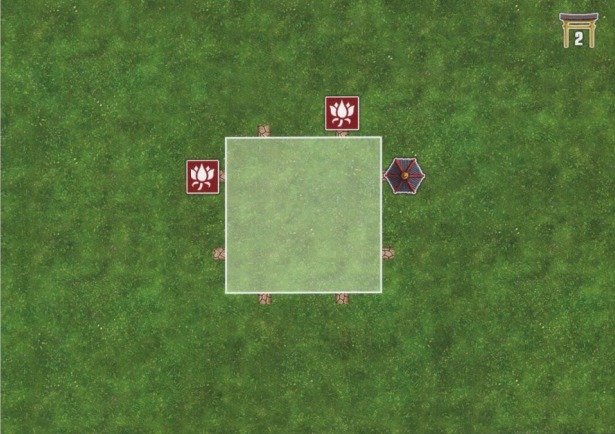
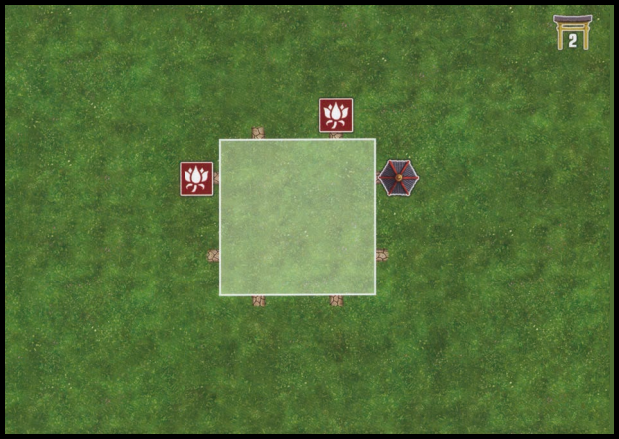
UPDATE v0.02
1ra Versión jugable. Se corrigieron las imagenes para que coincidan con
sus slots. se solucionó bug que no permitía seleccionar una ficha que
habia sido seleccionada en el mapa anterior. Ahora los datos de desafíos
completados se guardan el local store, por lo que no es necesario
empezar de cero cada vez que se actualiza el navegador.

diff --git a/js/script.js b/js/script.js
@@ -8,6 +8,7 @@ const mapas = []; //genera el array mapas.
 let fichaSeleccionada; // indica la ficha seleccionada.
 let fichaColocada; //indica la ficha colocada actualmente.
 let slots = []; //array con los slots del DOM y sus estados.
+let maxDesafioCompleto;
 
 
 //*************************************************************************************************************************
@@ -22,7 +23,7 @@ class Slot{//Se crea la clase Slot que establece el elemento del DOM y su estado
         this.oculto = false;
         this.fichaColocada;
     }
-    
+
     ocultarSlot() {
             this.elementoDOM.style.display = "none";
     }
@@ -104,6 +105,7 @@ class mapa { //genera la clase constructora de objetos mapa
 
     completarMapa() { //metodo para indicar que el desafío ya fue completado
         this.mapaCompleto = true;
+        localStorage.setItem('maxDesafioCompleto', mapaActual);
     }
 
     habilitarMapa() { //método que indica si el desafío esta habilitado para jugarse
@@ -242,41 +244,48 @@ const clickSlots = (a,b) => { //toma como parametros el nodo del slot clickeado 
     }
 }
 
-let colocarFicha = (a) => {
-    if(fichaSeleccionada >= 0 && fichaSeleccionada < 7){
-        switch(true){
+let colocarFicha = (a) => { //funcion que se encarga de colocar la ficha
+    if(fichaSeleccionada >= 0 && fichaSeleccionada < 7){ //coloca la ficha si ficha seleccionada esta entre [0;7)
+        switch(true){ //compara todos los casos y acciona el que devuelva TRUE
             case fichaSeleccionada === 0:
-                a.innerHTML = `<img id="imgFicha1" src="../assets/img/fichas/ficha1.png">`;
-                fichaSeleccionada = -1;
-                fichaColocada = 0;
+                a.innerHTML = `<img id="imgFicha1" src="../assets/img/fichas/ficha1.png">`; //coloca la imagen de la ficha en el slot
+                fichas[fichaSeleccionada].fichaSeleccionada();//evita conflictos al seleccionar una ficha en un nuevo mapa
+                fichaSeleccionada = -1; //deselecciona la ficha seleccionada previamente
+                fichaColocada = 0; //indica la ficha que se colocó
                 break;
             case fichaSeleccionada === 1:
                 a.innerHTML = `<img id="imgFicha2" src="../assets/img/fichas/ficha2.png">`;
+                fichas[fichaSeleccionada].fichaSeleccionada();
                 fichaSeleccionada = -1;
                 fichaColocada = 1;
                 break;
             case fichaSeleccionada === 2:
                 a.innerHTML = `<img id="imgFicha3" src="../assets/img/fichas/ficha3.png">`;
+                fichas[fichaSeleccionada].fichaSeleccionada();
                 fichaSeleccionada = -1;
                 fichaColocada = 2;
                 break;
             case fichaSeleccionada === 3:
                 a.innerHTML = `<img id="imgFicha4" src="../assets/img/fichas/ficha4.png">`;
+                fichas[fichaSeleccionada].fichaSeleccionada(); 
                 fichaSeleccionada = -1;
                 fichaColocada = 3;
                 break;
             case fichaSeleccionada === 4:
                 a.innerHTML = `<img id="imgFicha5" src="../assets/img/fichas/ficha5.png">`;
+                fichas[fichaSeleccionada].fichaSeleccionada(); 
                 fichaSeleccionada = -1;
                 fichaColocada = 4;
                 break;
             case fichaSeleccionada === 5:
                 a.innerHTML = `<img id="imgFicha6" src="../assets/img/fichas/ficha6.png">`;
+                fichas[fichaSeleccionada].fichaSeleccionada(); 
                 fichaSeleccionada = -1;
                 fichaColocada = 5;
                 break;
             case fichaSeleccionada === 6:
                 a.innerHTML = `<img id="imgFicha7" src="../assets/img/fichas/ficha7.png">`;
+                fichas[fichaSeleccionada].fichaSeleccionada(); 
                 fichaSeleccionada = -1;
                 fichaColocada = 6;
                 break;
@@ -332,15 +341,24 @@ const limpiarMapa = () => {
 
 //MAPA SIGUIENTE
 let mapaSiguiente = () => {
-    if(mapas[mapaActual-1].mapaCompleto){
-        
-        mapaActual++;
-        mapaSeleccionado.src=`../assets/img/niveles/nivel${mapaActual}.png`;
-        mapas[mapaActual-1].seleccionado = true; //indica al mapa actual como seleccionado.
-        mapas[mapaActual-2].seleccionado = false; //indica al mapa anterior como no seleccionado.
-        ocultarSlots(); //oculta todos los slots
-        mostrarSlots(mapaActual); //muestra los slots necesarios para el mapa siguiente
-        limpiarMapa();
+    maxDesafioCompleto = localStorage.getItem('maxDesafioCompleto');
+    if(mapas[mapaActual-1].mapaCompleto || maxDesafioCompleto >= mapaActual){
+        if(mapaActual>9) {
+            Swal.fire({ //alerta con SWEET ALERT
+                icon: 'error',
+                title: 'MAPA NO DISPONIBLE',
+                text: 'Lo sentimos, ésta es una versión de prueba del juego de mesa de REINER KNIZIA. Para seguir disfrutando de este alucinante juego, por favor cómpralo y asi ayudarás al creador!',
+                footer: ''
+            })
+        } else {
+            mapaActual++;
+            mapaSeleccionado.src=`../assets/img/niveles/nivel${mapaActual}.png`;
+            mapas[mapaActual-1].seleccionado = true; //indica al mapa actual como seleccionado.
+            mapas[mapaActual-2].seleccionado = false; //indica al mapa anterior como no seleccionado.
+            ocultarSlots(); //oculta todos los slots
+            mostrarSlots(mapaActual); //muestra los slots necesarios para el mapa siguiente
+            limpiarMapa();
+        }
     }else{
         Swal.fire({ //alerta con SWEET ALERT
             icon: 'error',
@@ -356,10 +374,22 @@ btnSiguiente.addEventListener('click',mapaSiguiente); //boton que pasa al mapa s
 //MAPA ANTERIOR
 
 let mapaAnterior = () => {
-    mapaActual--;
-    mapaSeleccionado.src=`../assets/img/niveles/nivel${mapaActual}.png`;
-    mapas[mapaActual-1].seleccionado = true; //indica al mapa actual como seleccionado.
-    mapas[mapaActual].seleccionado = false; //indica al mapa anterior como no seleccionado.
+    if(mapaActual > 1){
+        mapaActual--;
+        mapaSeleccionado.src=`../assets/img/niveles/nivel${mapaActual}.png`;
+        mapas[mapaActual-1].seleccionado = true; //indica al mapa actual como seleccionado.
+        mapas[mapaActual].seleccionado = false; //indica al mapa anterior como no seleccionado.
+        ocultarSlots(); //oculta todos los slots
+        mostrarSlots(mapaActual); //muestra los slots necesarios para el mapa siguiente
+        limpiarMapa();
+    }else{
+        Swal.fire({ //alerta con SWEET ALERT
+            icon: 'error',
+            title: 'MAPA NO DISPONIBLE',
+            text: 'Tienes que completar el desafío 49 para pasar al 50',
+            footer: ''
+        })
+    }
 }
 btnAnterior.addEventListener('click',mapaAnterior); //boton que pasa al mapa anterior
 
@@ -382,7 +412,6 @@ for (let divFichaN of fichas) {//Itera el array fichas, con for...of.
 const MOSTRARFICHAS = async () => {
     try{
         for(i=0;i<7;i++){
-            //console.log(i);
             ficha[i] = document.getElementById(`ficha${[i+1]}`)//guarda nodos con ID ficha en el array "ficha[]"-No confundir con array "fichas[]"
         }        
     }
@@ -468,50 +497,50 @@ const corroborarVictoria = () => {
             }
             break;
         case mapaActual === 3:
-            if (slots[0].fichaColocada.id === 1 && slots[0].fichaColocada.posicion === 2){
+            if (slots[1].fichaColocada.id === 4 && slots[1].fichaColocada.posicion === 1 && slots[2].fichaColocada.id === 0 && slots[2].fichaColocada.posicion === 1){
                 mapas[2].completarMapa();
                 msjCompletado();
             }
             break;
         case mapaActual === 4:
-            if (slots[0].fichaColocada.id === 1 && slots[0].fichaColocada.posicion === 2){
+            if (slots[1].fichaColocada.id === 0 && slots[1].fichaColocada.posicion === 1 && slots[2].fichaColocada.id === 5 && slots[2].fichaColocada.posicion === 4){
                 mapas[3].completarMapa();
                 msjCompletado();
             }
             break;
         case mapaActual === 5:
-            if (slots[0].fichaColocada.id === 1 && slots[0].fichaColocada.posicion === 2){
-                mapas[0].completarMapa();
+            if (slots[1].fichaColocada.id === 1 && slots[1].fichaColocada.posicion === 2 && slots[2].fichaColocada.id === 2 && slots[2].fichaColocada.posicion === 3){
+                mapas[4].completarMapa();
                 msjCompletado();
             }
             break;
         case mapaActual === 6:
-            if (slots[0].fichaColocada.id === 1 && slots[0].fichaColocada.posicion === 2){
-                mapas[0].completarMapa();
+            if (slots[1].fichaColocada.id === 5 && slots[1].fichaColocada.posicion === 4 && slots[2].fichaColocada.id === 4 && slots[2].fichaColocada.posicion === 2){
+                mapas[5].completarMapa();
                 msjCompletado();
             }
             break;
         case mapaActual === 7:
-            if (slots[0].fichaColocada.id === 1 && slots[0].fichaColocada.posicion === 2){
-                mapas[0].completarMapa();
+            if (slots[1].fichaColocada.id === 4 && slots[1].fichaColocada.posicion === 1 && slots[2].fichaColocada.id === 3 && slots[2].fichaColocada.posicion === 2){
+                mapas[6].completarMapa();
                 msjCompletado();
             }
             break;
         case mapaActual === 8:
-            if (slots[0].fichaColocada.id === 1 && slots[0].fichaColocada.posicion === 2){
-                mapas[0].completarMapa();
+            if (slots[1].fichaColocada.id === 3 && slots[1].fichaColocada.posicion === 3 && slots[2].fichaColocada.id === 5 && slots[2].fichaColocada.posicion === 2){
+                mapas[7].completarMapa();
                 msjCompletado();
             }
             break;
         case mapaActual === 9:
-            if (slots[0].fichaColocada.id === 1 && slots[0].fichaColocada.posicion === 2){
-                mapas[0].completarMapa();
+            if (slots[1].fichaColocada.id === 5 && slots[1].fichaColocada.posicion === 1 && slots[2].fichaColocada.id === 6 && slots[2].fichaColocada.posicion === 3){
+                mapas[8].completarMapa();
                 msjCompletado();
             }
             break;
         case mapaActual === 10:
-            if (slots[0].fichaColocada.id === 1 && slots[0].fichaColocada.posicion === 2){
-                mapas[0].completarMapa();
+            if (slots[1].fichaColocada.id === 1 && slots[1].fichaColocada.posicion === 2 && slots[2].fichaColocada.id === 6 && slots[2].fichaColocada.posicion === 2){
+                mapas[9].completarMapa();
                 msjCompletado();
             }
             break;

diff --git a/scss/views/slots.scss b/scss/views/slots.scss
@@ -21,42 +21,42 @@
             height: 152px;}}
     &2{
         left: 219px;
-        top: 214px;
+        top: 215px;
         & img{
             align-self: center;
             width: 152px;
             height: 152px;}}
     &3{
         left: 219px;
-        top: 62px;
+        top: 60px;
         & img{
             align-self: center;
             width: 152px;
             height: 152px;}}
     &4{
         left: 143px;
-        top: 214px;
+        top: 215px;
         & img{
             align-self: center;
             width: 152px;
             height: 152px;}}
     &5{
         left: 295px;
-        top: 214px;
+        top: 215px;
         & img{
             align-self: center;
             width: 152px;
             height: 152px;}}
     &6{
         left: 295px;
-        top: 62px;
+        top: 60px;
         & img{
             align-self: center;
             width: 152px;
             height: 152px;}}
     &7{
         left: 143px;
-        top: 62px;
+        top: 60px;
         & img{
             align-self: center;
             width: 152px;

diff --git a/css/estilos.css b/css/estilos.css
@@ -296,7 +296,7 @@ nav ul a:active {
 
 #slot2 {
   left: 219px;
-  top: 214px; }
+  top: 215px; }
   #slot2 img {
     align-self: center;
     width: 152px;
@@ -304,7 +304,7 @@ nav ul a:active {
 
 #slot3 {
   left: 219px;
-  top: 62px; }
+  top: 60px; }
   #slot3 img {
     align-self: center;
     width: 152px;
@@ -312,7 +312,7 @@ nav ul a:active {
 
 #slot4 {
   left: 143px;
-  top: 214px; }
+  top: 215px; }
   #slot4 img {
     align-self: center;
     width: 152px;
@@ -320,7 +320,7 @@ nav ul a:active {
 
 #slot5 {
   left: 295px;
-  top: 214px; }
+  top: 215px; }
   #slot5 img {
     align-self: center;
     width: 152px;
@@ -328,7 +328,7 @@ nav ul a:active {
 
 #slot6 {
   left: 295px;
-  top: 62px; }
+  top: 60px; }
   #slot6 img {
     align-self: center;
     width: 152px;
@@ -336,7 +336,7 @@ nav ul a:active {
 
 #slot7 {
   left: 143px;
-  top: 62px; }
+  top: 60px; }
   #slot7 img {
     align-self: center;
     width: 152px;

diff --git a/pages/puzzles.html b/pages/puzzles.html
@@ -45,7 +45,7 @@
             <br>
             <div id="juego">
                 <div id="mapaAnterior">
-                    <button id="btnAnterior" class="btnJuego" disabled="true">Anterior</button>
+                    <button id="btnAnterior" class="btnJuego">Anterior</button>
                 </div>
                 <div id="zonaDeJuego">
                     <img src="../assets/img/niveles/nivel1.png" alt="" id="mapaSeleccionado">
